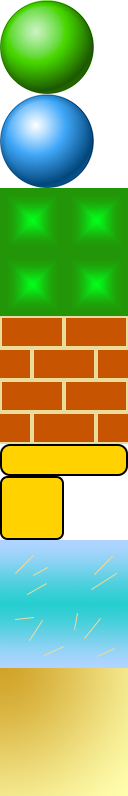
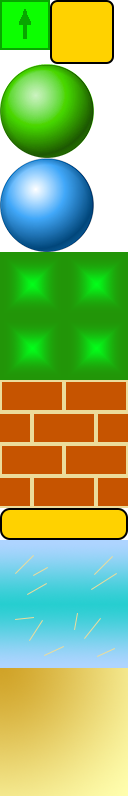
added speed booster bonus object. created a different movement system. added a spriteObject class for simpler structure.

diff --git a/js/game.js b/js/game.js
@@ -3,6 +3,7 @@ import * as PIXI from 'pixi.js';
 import Matter from "matter-js";
 import {Base} from "./base";
 import {Ledge} from "./ledge";
+import {SpeedBooster} from "./speedBooster";
 import {Ball} from "./ball";
 import {keyboard, findDistance} from "./utils";
 import {Bridge} from "./bridge";
@@ -12,10 +13,8 @@ export class Game extends Base{
         super();
         this.maxSpeed = 2;
         this.lastScale = 1;
-        this.xForce = 0.175;
         this.scaleAnimationObject = {value: 1};
         this.currentScaleAnimation = null;
-        this.yForce = -0.25;
         this.characters = {
             blueBall: null,
             greenBall: null
@@ -46,6 +45,24 @@ export class Game extends Base{
         }
     }
 
+    onCollisionStart(event) {
+        for (let pair of event.pairs) {
+            if (pair.bodyA.id === this.characters.blueBall.body.id) {
+                this.characters.blueBall.collisionStart(pair.bodyB);
+            }
+            if (pair.bodyB.id === this.characters.blueBall.body.id) {
+                this.characters.blueBall.collisionStart(pair.bodyA);
+            }
+            if (pair.bodyA.id === this.characters.greenBall.body.id) {
+                this.characters.greenBall.collisionStart(pair.bodyB);
+            }
+            if (pair.bodyB.id === this.characters.greenBall.body.id) {
+                this.characters.greenBall.collisionStart(pair.bodyA);
+            }
+
+        }
+    }
+
     startZoomUpdate(from, to) {
         if (this.currentScaleAnimation) {
             this.currentScaleAnimation.stop();
@@ -65,16 +82,6 @@ export class Game extends Base{
     setupResources() {
         super.setupResources();
         this.initGame();
-    }
-
-    moveBall(direction, body, force) {
-        if (direction === 1) {
-            Matter.Body.applyForce(body, body.position, {x: force, y: 0});
-        } else  {
-            if ( Math.abs(body.velocity.y) < this.maxSpeed) {
-                Matter.Body.applyForce(body, body.position, {x: 0, y: force});
-            }
-        }
     }
 
     initWalls() {
@@ -106,6 +113,9 @@ export class Game extends Base{
         let bridge = new Bridge(100, 300, 300, 200, 20, 10, this);
         bridge.show();
 
+        let speedBooster = new SpeedBooster(500, 70, this);
+        speedBooster.show();
+
     }
 
     initCharacters() {
@@ -123,32 +133,71 @@ export class Game extends Base{
     initControls() {
         let leftObject = keyboard("ArrowLeft");
         leftObject.press = () => {
-            this.moveBall(1, this.characters.blueBall.body, -this.xForce);
+            this.characters.blueBall.startMovement(-1);
+        };
+
+        leftObject.release = () => {
+            this.characters.blueBall.stopMovement(-1);
         };
 
         let rightObject = keyboard("ArrowRight");
         rightObject.press = () => {
-            this.moveBall(1, this.characters.blueBall.body, this.xForce);
+            this.characters.blueBall.startMovement(1);
+        };
+
+        rightObject.release = () => {
+            this.characters.blueBall.stopMovement(1);
         };
 
         let upObject = keyboard("ArrowUp");
         upObject.press = () => {
-            this.moveBall(0, this.characters.blueBall.body, this.yForce);
+            this.characters.blueBall.jump();
         };
 
         let aObject = keyboard("a");
         aObject.press = () => {
-            this.moveBall(1, this.characters.greenBall.body, -this.xForce);
+            this.characters.greenBall.startMovement(-1);
+        };
+
+        aObject.release = () => {
+            this.characters.greenBall.stopMovement(-1);
+        };
+
+        let aObject1 = keyboard("A");
+        aObject1.press = () => {
+            this.characters.greenBall.startMovement(-1);
+        };
+
+        aObject1.release = () => {
+            this.characters.greenBall.stopMovement(-1);
         };
 
         let dObject = keyboard("d");
         dObject.press = () => {
-            this.moveBall(1, this.characters.greenBall.body, this.xForce);
+            this.characters.greenBall.startMovement(1);
+        };
+
+        dObject.release = () => {
+            this.characters.greenBall.stopMovement(1);
+        };
+
+        let dObject1 = keyboard("D");
+        dObject1.press = () => {
+            this.characters.greenBall.startMovement(1);
+        };
+
+        dObject1.release = () => {
+            this.characters.greenBall.stopMovement(1);
         };
 
         let wObject = keyboard("w");
         wObject.press = () => {
-            this.moveBall(0, this.characters.greenBall.body, this.yForce);
+            this.characters.greenBall.jump();
+        };
+
+        let wObject1 = keyboard("W");
+        wObject1.press = () => {
+            this.characters.greenBall.jump();
         }
     }
 

diff --git a/js/ball.js b/js/ball.js
@@ -1,35 +1,54 @@
 import {GameObject} from "./gameObject";
 import Matter from "matter-js";
 import * as PIXI from "pixi.js";
+import {SpriteObject} from "./spriteObject";
 
-export class Ball extends GameObject {
+export class Ball extends SpriteObject {
     constructor(centerX, centerY, radius, game, texture) {
-        let realCoords = game.abstractToReal(centerX, centerY);
-        let realScale = game.abstractToReal(radius, radius);
-        super(Matter.Bodies.circle(realCoords.x, realCoords.y, realScale.x, { isStatic: false, restitution: 0.5 }));
-        this.game = game;
-        Matter.Body.setMass(this.body, 10);
-        this.radius = realScale.x;
-        this.sprite = new PIXI.Sprite(texture);
-        this.sprite.height = this.radius * 2;
-        this.sprite.width = this.radius * 2;
+        super(radius * 2, radius * 2, texture, Matter.Bodies.circle(centerX, centerY, radius, { isStatic: false, restitution: 0.5, mass: 10 }), game);
+        this.moving = 0;
+        this.jumps = 2;
+        this.movingForce = 0.009;
+        this.pushForce = 0.15;
+        this.yForce = -0.25;
     }
+
+    startMovement(direction) {
+        Matter.Body.applyForce(this.body, this.body.position, {x: this.pushForce * direction, y: 0});
+        this.moving = direction;
+    }
+
+    stopMovement(direction) {
+        if (this.moving === direction) {
+            this.moving = 0;
+        }
+    }
+
+    move() {
+        if (this.moving) {
+            Matter.Body.applyForce(this.body, this.body.position, {x: this.movingForce * this.moving, y: 0});
+        }
+    }
+
+    jump() {
+        if ( Math.abs(this.body.velocity.y) < this.game.maxSpeed && this.jumps) {
+            Matter.Body.applyForce(this.body, this.body.position, {x: 0, y: this.yForce});
+            this.jumps --;
+        }
+    }
+
+    collisionStart(withBody) {
+        this.resetJumps();
+    }
+
+    resetJumps() {
+        this.jumps = 2;
+    }
+
 
     update() {
-        let cornerCoords = this.game.calculateCorner(this.body.position.x, this.body.position.y, 2 * this.radius, 2 * this.radius);
-        this.sprite.x = cornerCoords.x;
-        this.sprite.y = cornerCoords.y;
-    }
-
-    show() {
-       this.game.cnt.game.addChild(this.sprite);
-       this.game.addAnimatedObject(this);
-       Matter.Composite.add(this.game.phEngine.world, this.body);
-    }
-
-    hide() {
-        this.game.cnt.game.removeChild(this.sprite);
-        this.game.removeAnimatedObject(this);
+        super.update();
+        this.move();
     }
 
 }

diff --git a/js/base.js b/js/base.js
@@ -82,6 +82,10 @@ export class Base {
         return true;
     }
 
+    onCollisionStart(pairs) {
+
+    }
+
     initEngine() {
         let div = document.getElementById('fieldHolder');
         let versionElem = document.getElementById('version');
@@ -90,6 +94,10 @@ export class Base {
         this.width = div.offsetWidth;
 
         this.phEngine = Matter.Engine.create();
+
+        Matter.Events.on(this.phEngine, "collisionStart", (pairs) => {
+            this.onCollisionStart(pairs);
+        });
 
         this.app = new PIXI.Application({
             width: this.width, height: this.height,
@@ -154,6 +162,7 @@ export class Base {
         this.tex.ice = this.tex.allImg["ice.png"];
         this.tex.bouncer = this.tex.allImg["bouncer.png"];
         this.tex.bridgePiece = this.tex.allImg["bridge_1.png"];
+        this.tex.speedBooster = this.tex.allImg["speedBooster.png"];
     }
 
 }

diff --git a/js/spriteObject.js b/js/spriteObject.js
@@ -1,0 +1,32 @@
+import {GameObject} from "./gameObject";
+import * as PIXI from "pixi.js";
+
+export class SpriteObject extends GameObject{
+    constructor(width, height, tex, body, game) {
+        super(body, game);
+        this.sprite = new PIXI.Sprite(tex);
+        this.sprite.width = width;
+        this.sprite.height = height;
+        this.sprite.anchor.set(0.5, 0.5);
+    }
+
+    show() {
+        super.show();
+        this.game.cnt.game.addChild(this.sprite);
+        this.game.addAnimatedObject(this);
+    }
+
+    hide() {
+        super.hide();
+        this.game.cnt.game.removeChild(this.sprite);
+        this.game.removeAnimatedObject(this);
+    }
+
+    update() {
+        this.sprite.x = this.body.position.x;
+        this.sprite.y = this.body.position.y;
+        this.sprite.rotation = this.body.angle;
+    }
+
+
+}

diff --git a/js/gameObject.js b/js/gameObject.js
@@ -1,6 +1,18 @@
+import Matter from "matter-js";
+
 export class GameObject {
-    constructor(physicalBody) {
+    constructor(physicalBody, game) {
         this.body = physicalBody;
+        this.game = game;
         this.body.gameObject = this;
     }
+
+    show() {
+        Matter.Composite.add(this.game.phEngine.world, this.body);
+    }
+
+    hide() {
+        Matter.Composite.remove(this.game.phEngine.world, this.body);
+    }
+
 }

diff --git a/js/speedBooster.js b/js/speedBooster.js
@@ -1,0 +1,9 @@
+import {SpriteObject} from "./spriteObject";
+import Matter from "matter-js";
+
+export class SpeedBooster extends SpriteObject{
+    constructor(x, y, game) {
+        super(30, 30, game.tex.speedBooster, Matter.Bodies.rectangle(x, y, 30, 30, {mass: 0.2}), game);
+    }
+
+}

diff --git a/js/ledge.js b/js/ledge.js
@@ -57,6 +57,7 @@ export class Ledge extends GameObject{
     hide() {
         this.game.cnt.game.removeChild(this.sprite);
         this.game.removeAnimatedObject(this);
+        Matter.Composite.remove(this.game.phEngine.world, this.body);
     }
 
 }
